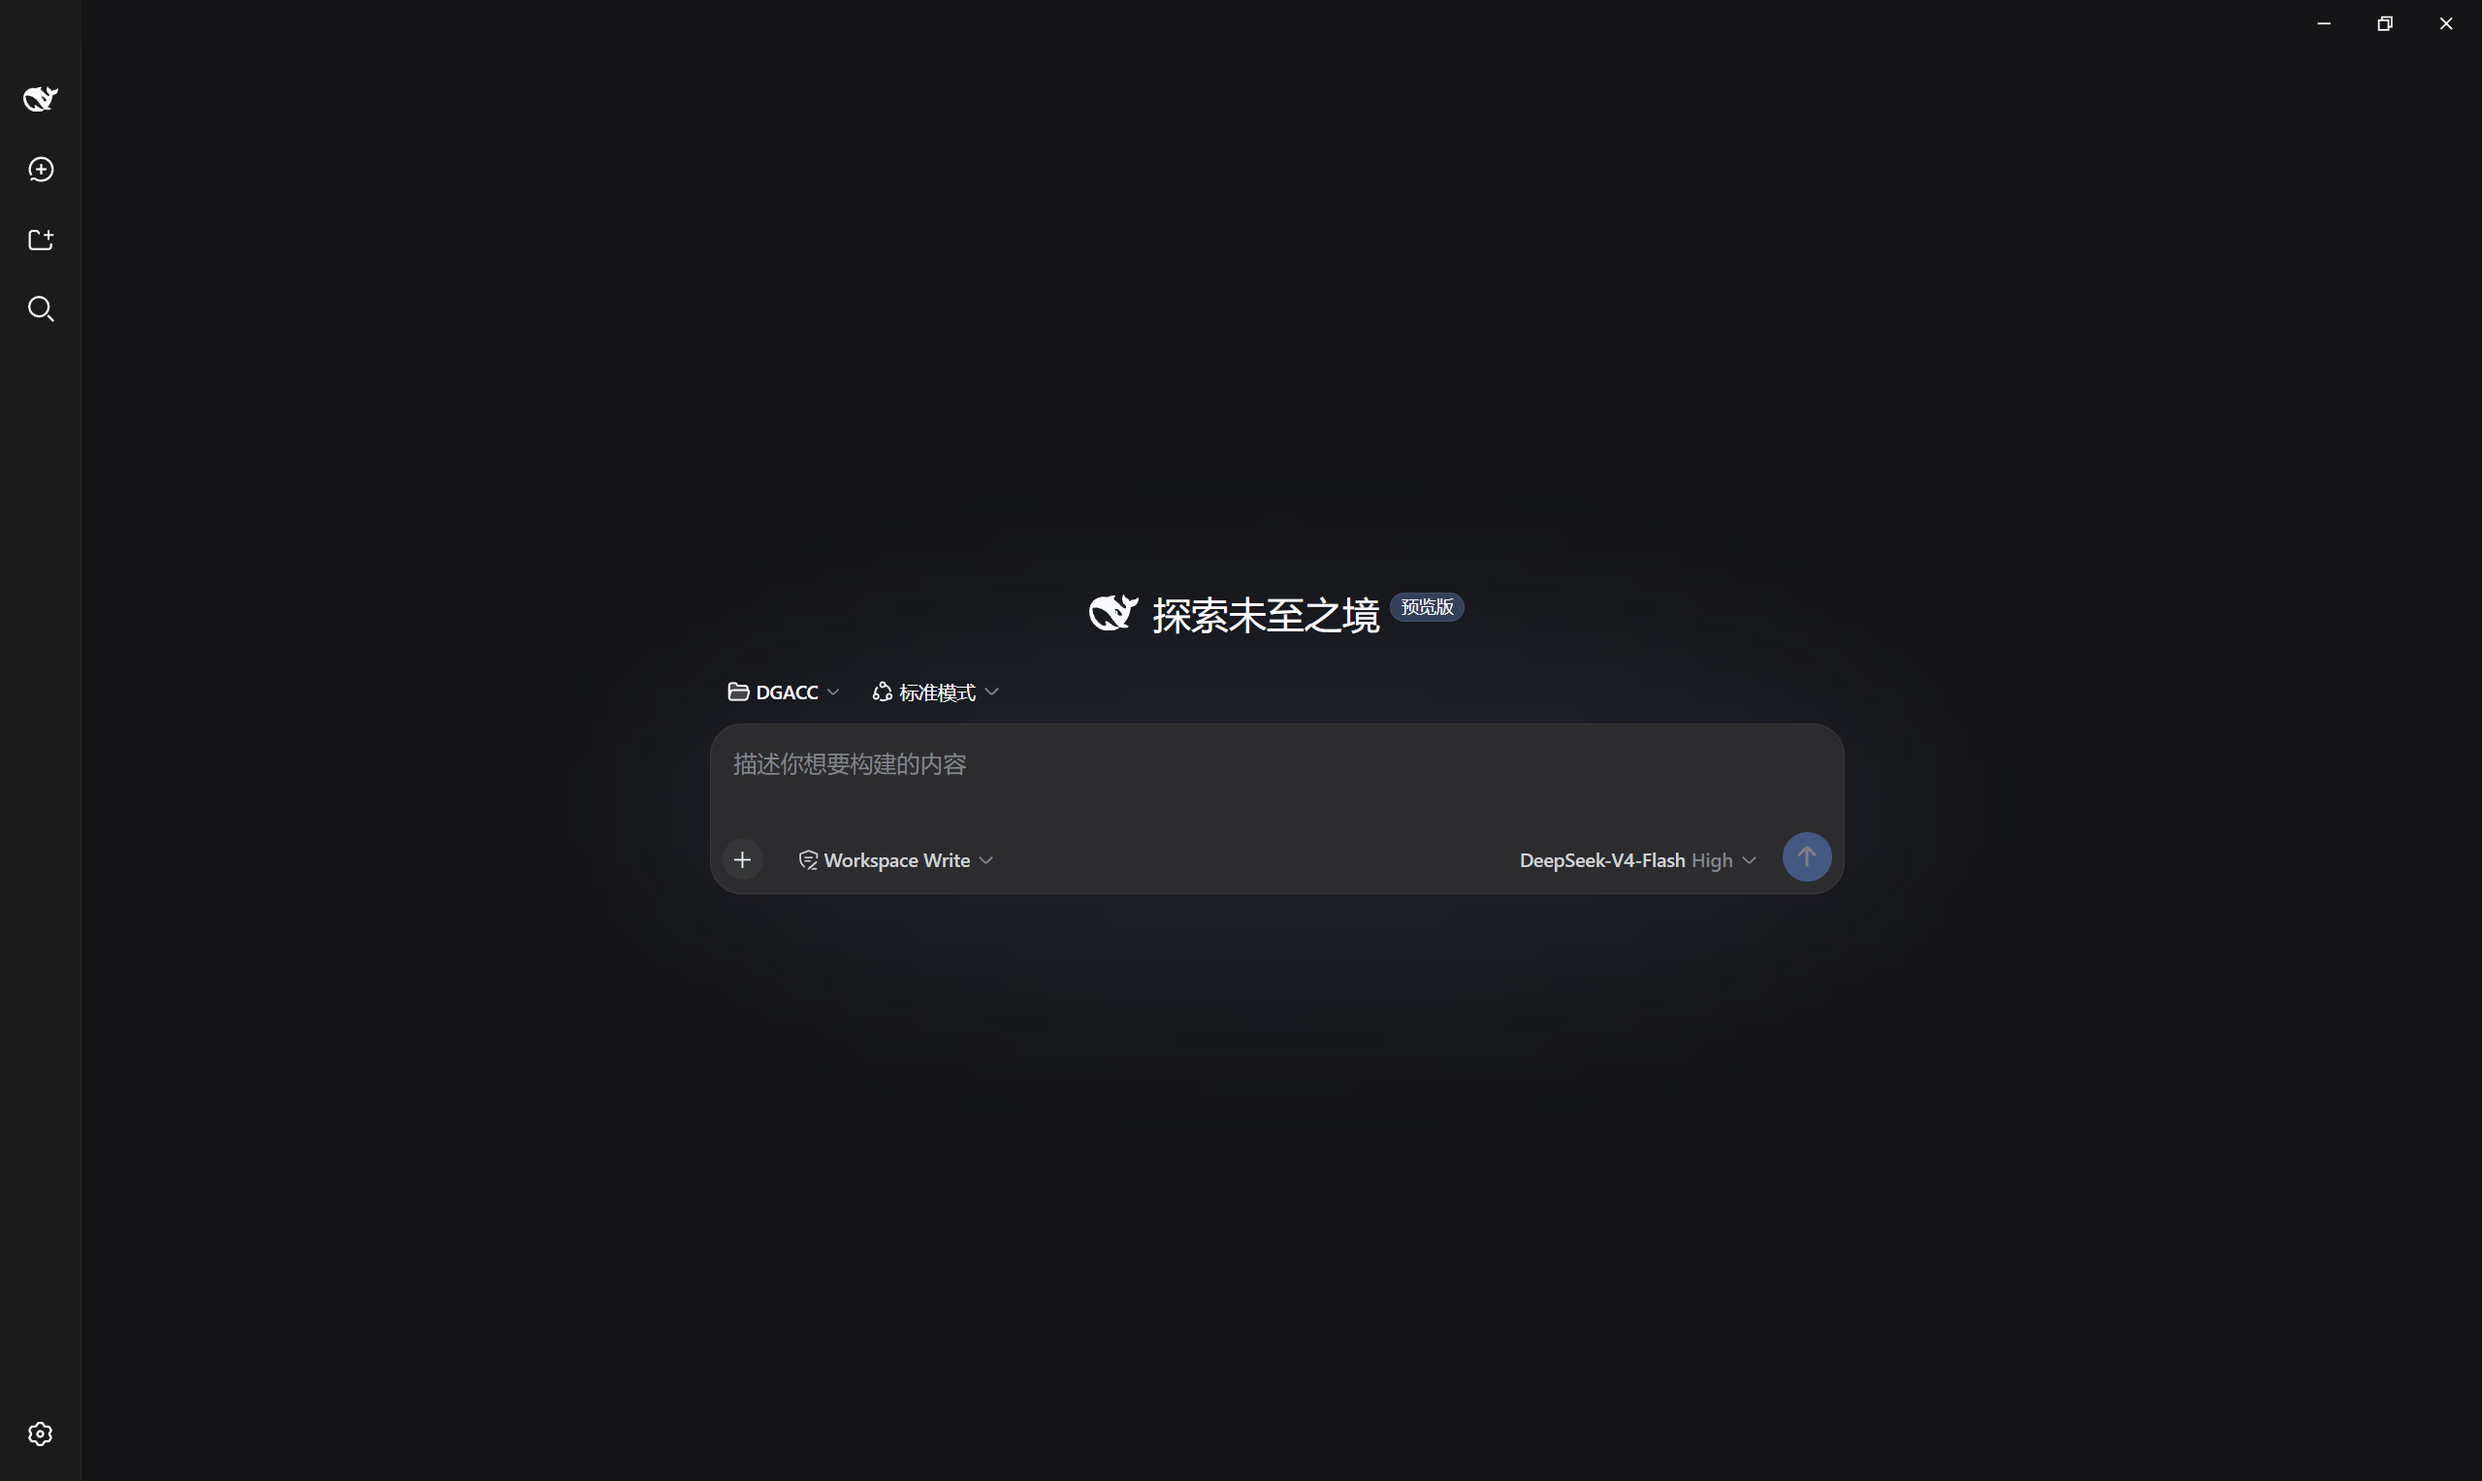
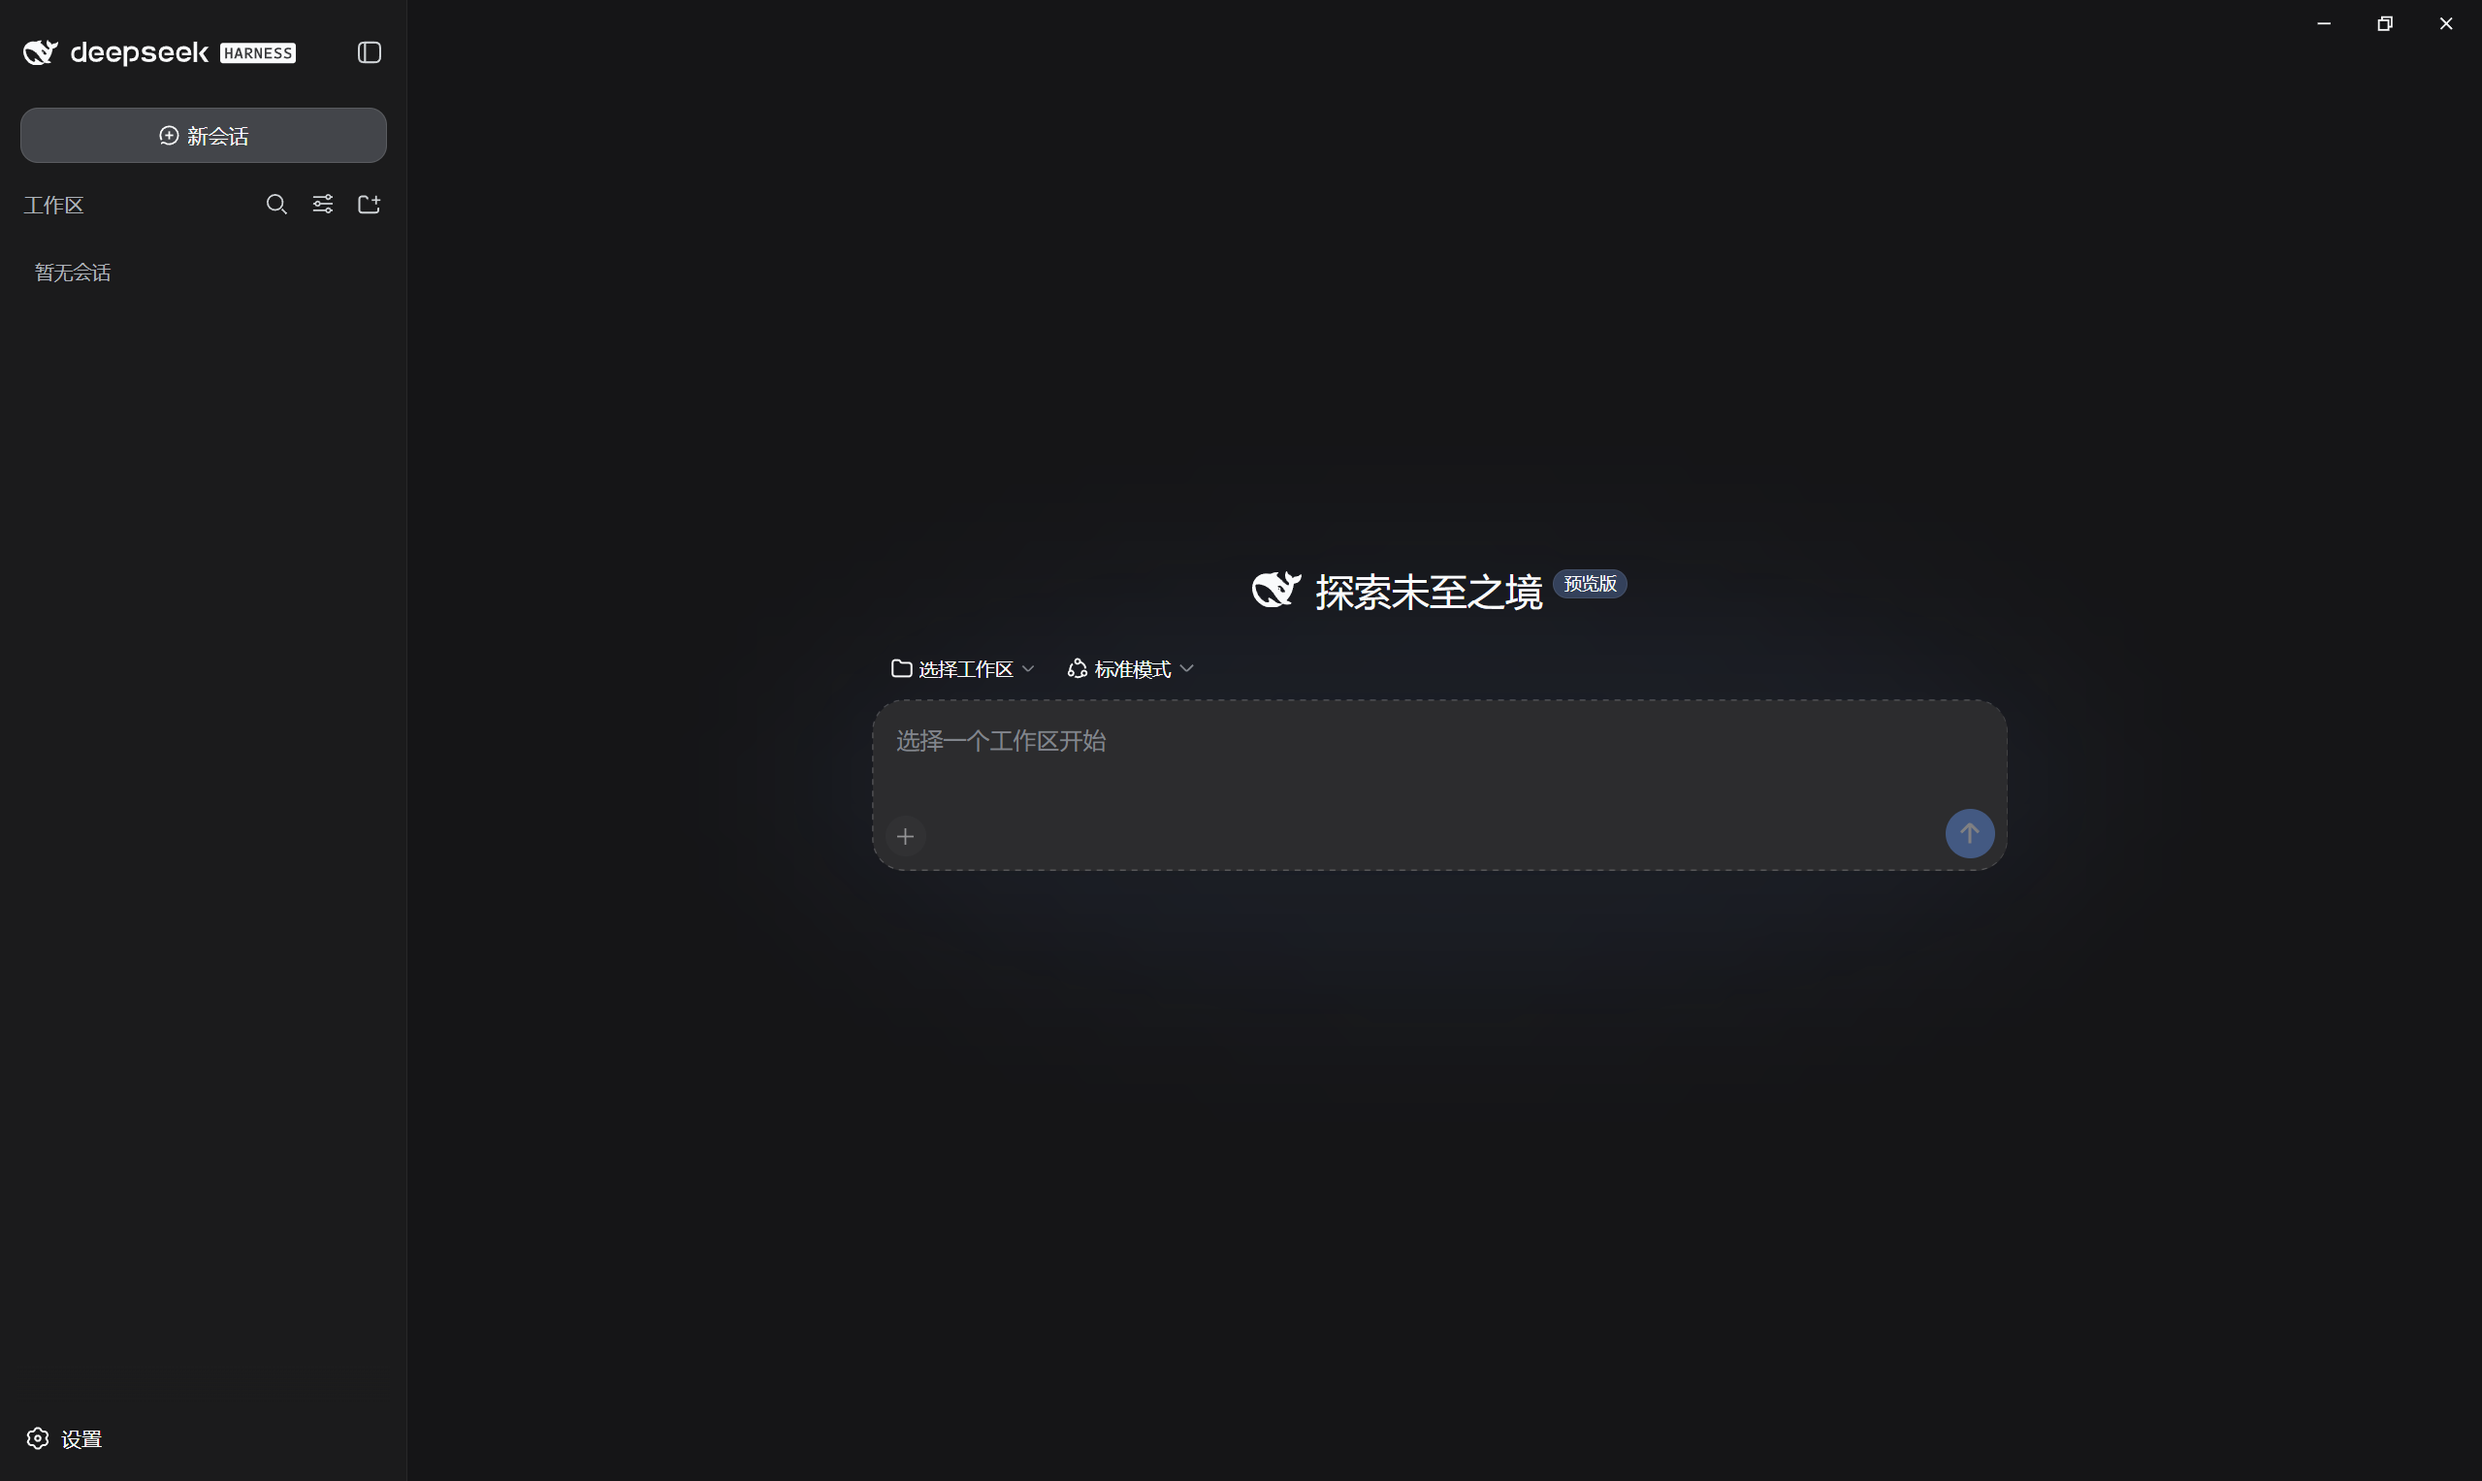
release: v1.2.1
- README 换新截图（沙盒环境录制，不再带真实项目数据），补光/暗主题对比图与 API Key 设置页截图，更新日志摘要同步
- 版权持有人由占位符 deepseek-desktop 改为 EasyTZ（LICENSE / package.json / electron-builder.yml 三处一致）
- 版本号 1.2.0 -> 1.2.1

diff --git a/README.md b/README.md
@@ -8,6 +8,11 @@
   <a href="https://github.com/EasyTZ/Deepseek-Harness-Desktop/releases/latest"><b>⬇ 下载最新版</b></a>
 </p>
 
+<p align="center">
+  <sub>浅色主题：</sub><br>
+  <img src="docs/screenshot-light.png" alt="浅色主题" width="640">
+</p>
+
 ---
 
 ## ✨ 亮点
@@ -39,7 +44,11 @@
 
 **第一次启动**：双击图标后会先出现启动窗口（logo + 加载动画），几秒后自动进入主界面 —— 这是程序在后台拉起本地服务，属正常现象。
 
-**填 API Key（必做）**：点左下角齿轮 → 打开「模型 / Models」→ 填入 DeepSeek API Key（形如 `sk-xxxx`，在 [platform.deepseek.com](https://platform.deepseek.com) 申请）→ 保存。不填也能打开界面，但一发消息就会失败。
+**填 API Key（必做）**：点左下角齿轮 → 打开「模型」→ 填入 DeepSeek API Key（形如 `sk-xxxx`，在 [platform.deepseek.com](https://platform.deepseek.com) 申请）→ 保存。不填也能打开界面，但一发消息就会失败。
+
+<p align="center">
+  <img src="docs/settings-api.png" alt="API Key 设置页面" width="560">
+</p>
 
 **日常使用**：
 
@@ -87,7 +96,7 @@
 
 ## 📝 更新日志
 
-**最新版 v1.2.0** —— 修复「装了新版客户端、内核还是旧的」；出厂内核升级到 dsh `0.1.1-rc.2`；插件改用 dsh 官方机制接入，内核升级后不再失效；修复内核回退时的十几秒卡顿。
+**最新版 v1.2.1** —— 标题栏改为悬浮叠加，界面顶部不再留一大块空白；更新弹窗视觉优化，主题色随浅色/深色自动切换；新增 GitHub Issue 模板与托盘反馈入口，报问题更方便。
 
 完整历史见 [Releases](https://github.com/EasyTZ/Deepseek-Harness-Desktop/releases)。
 
